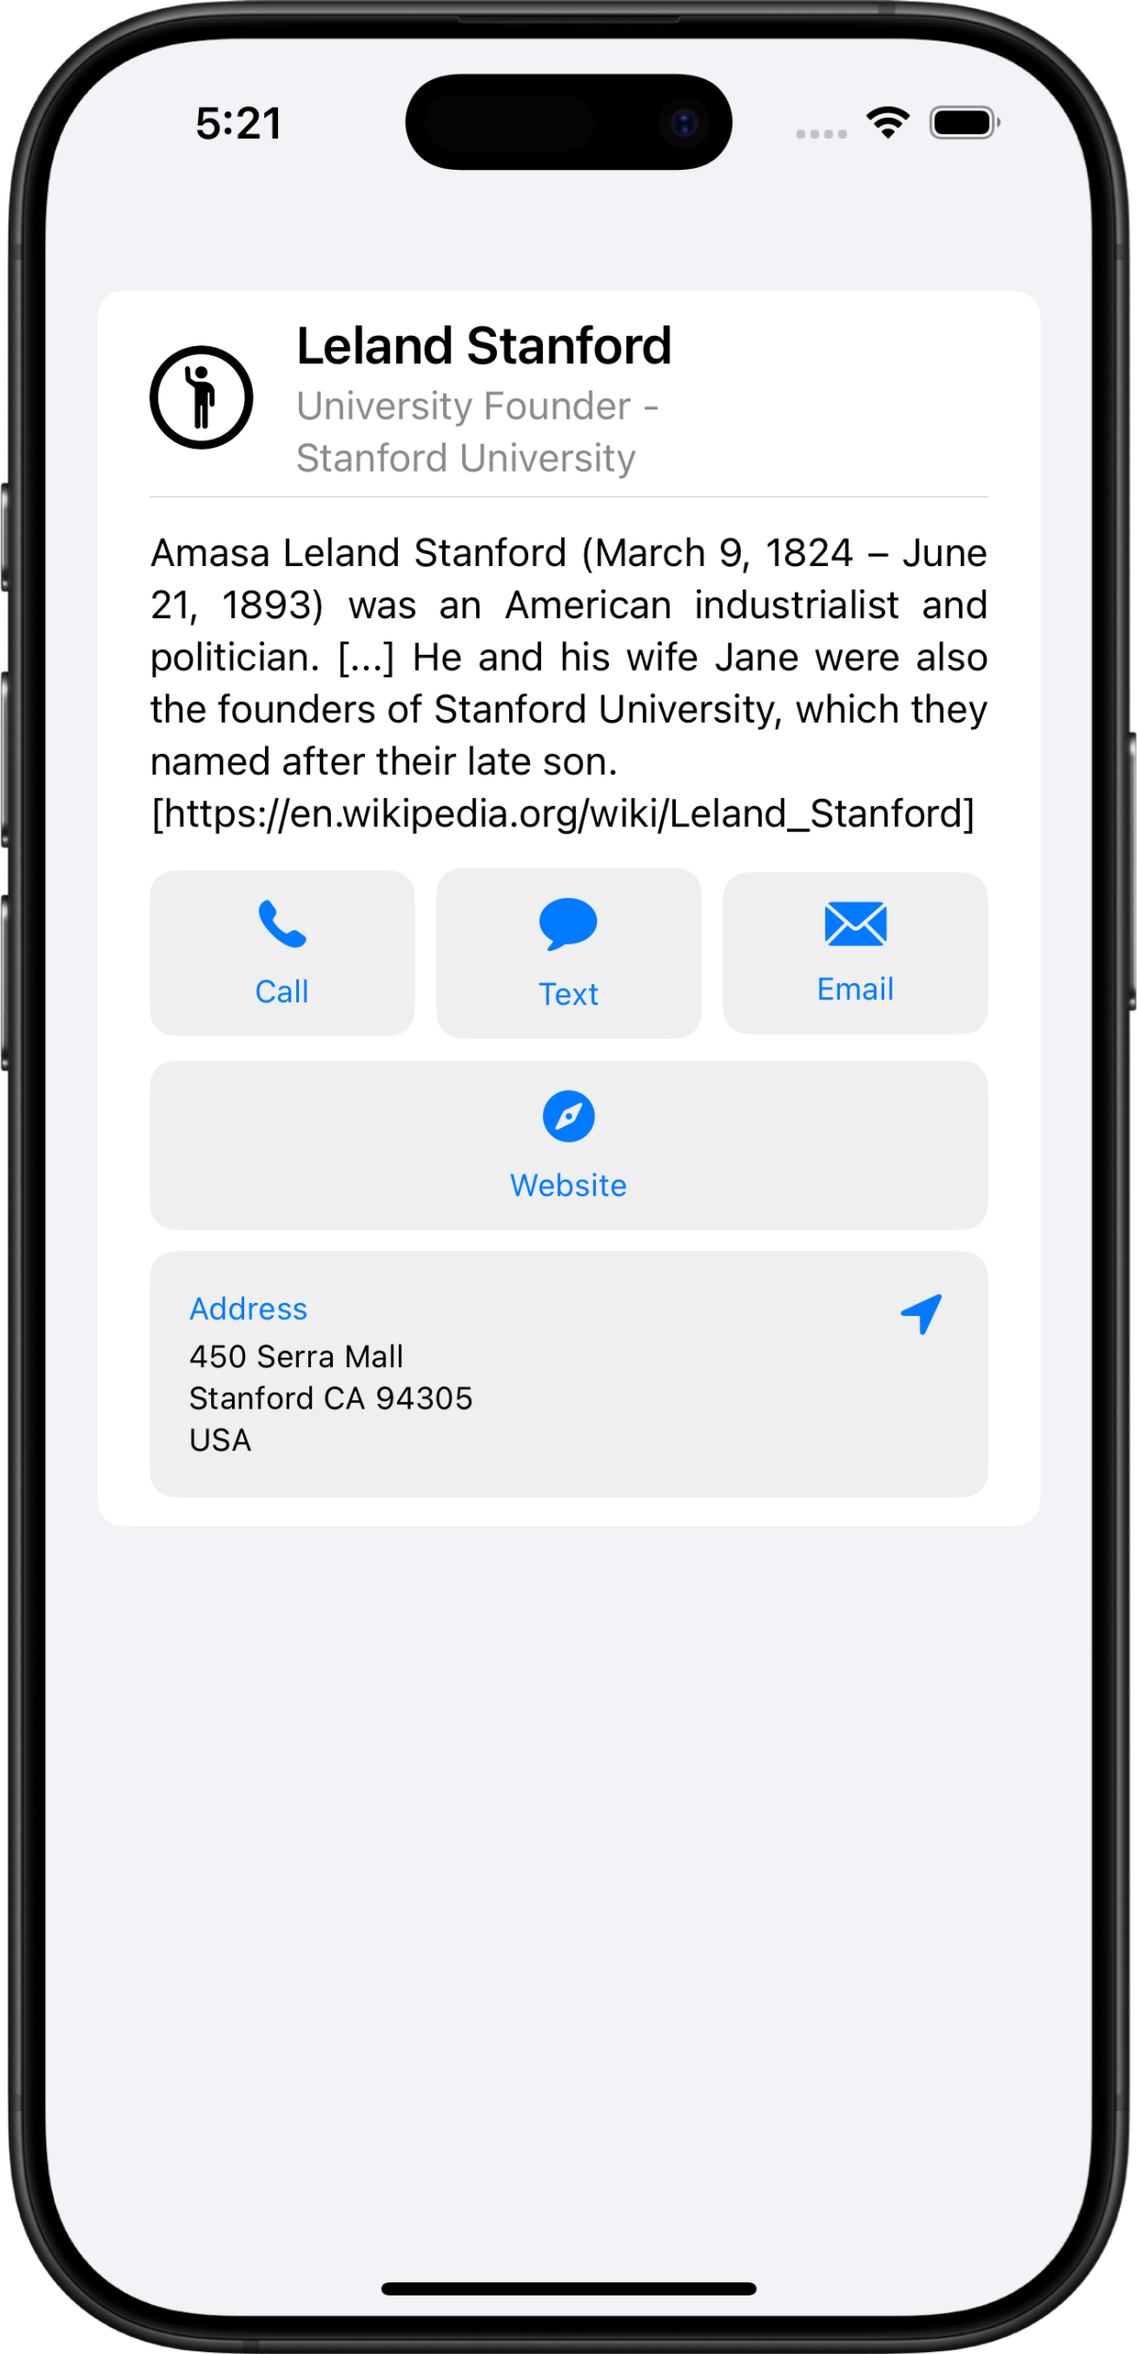
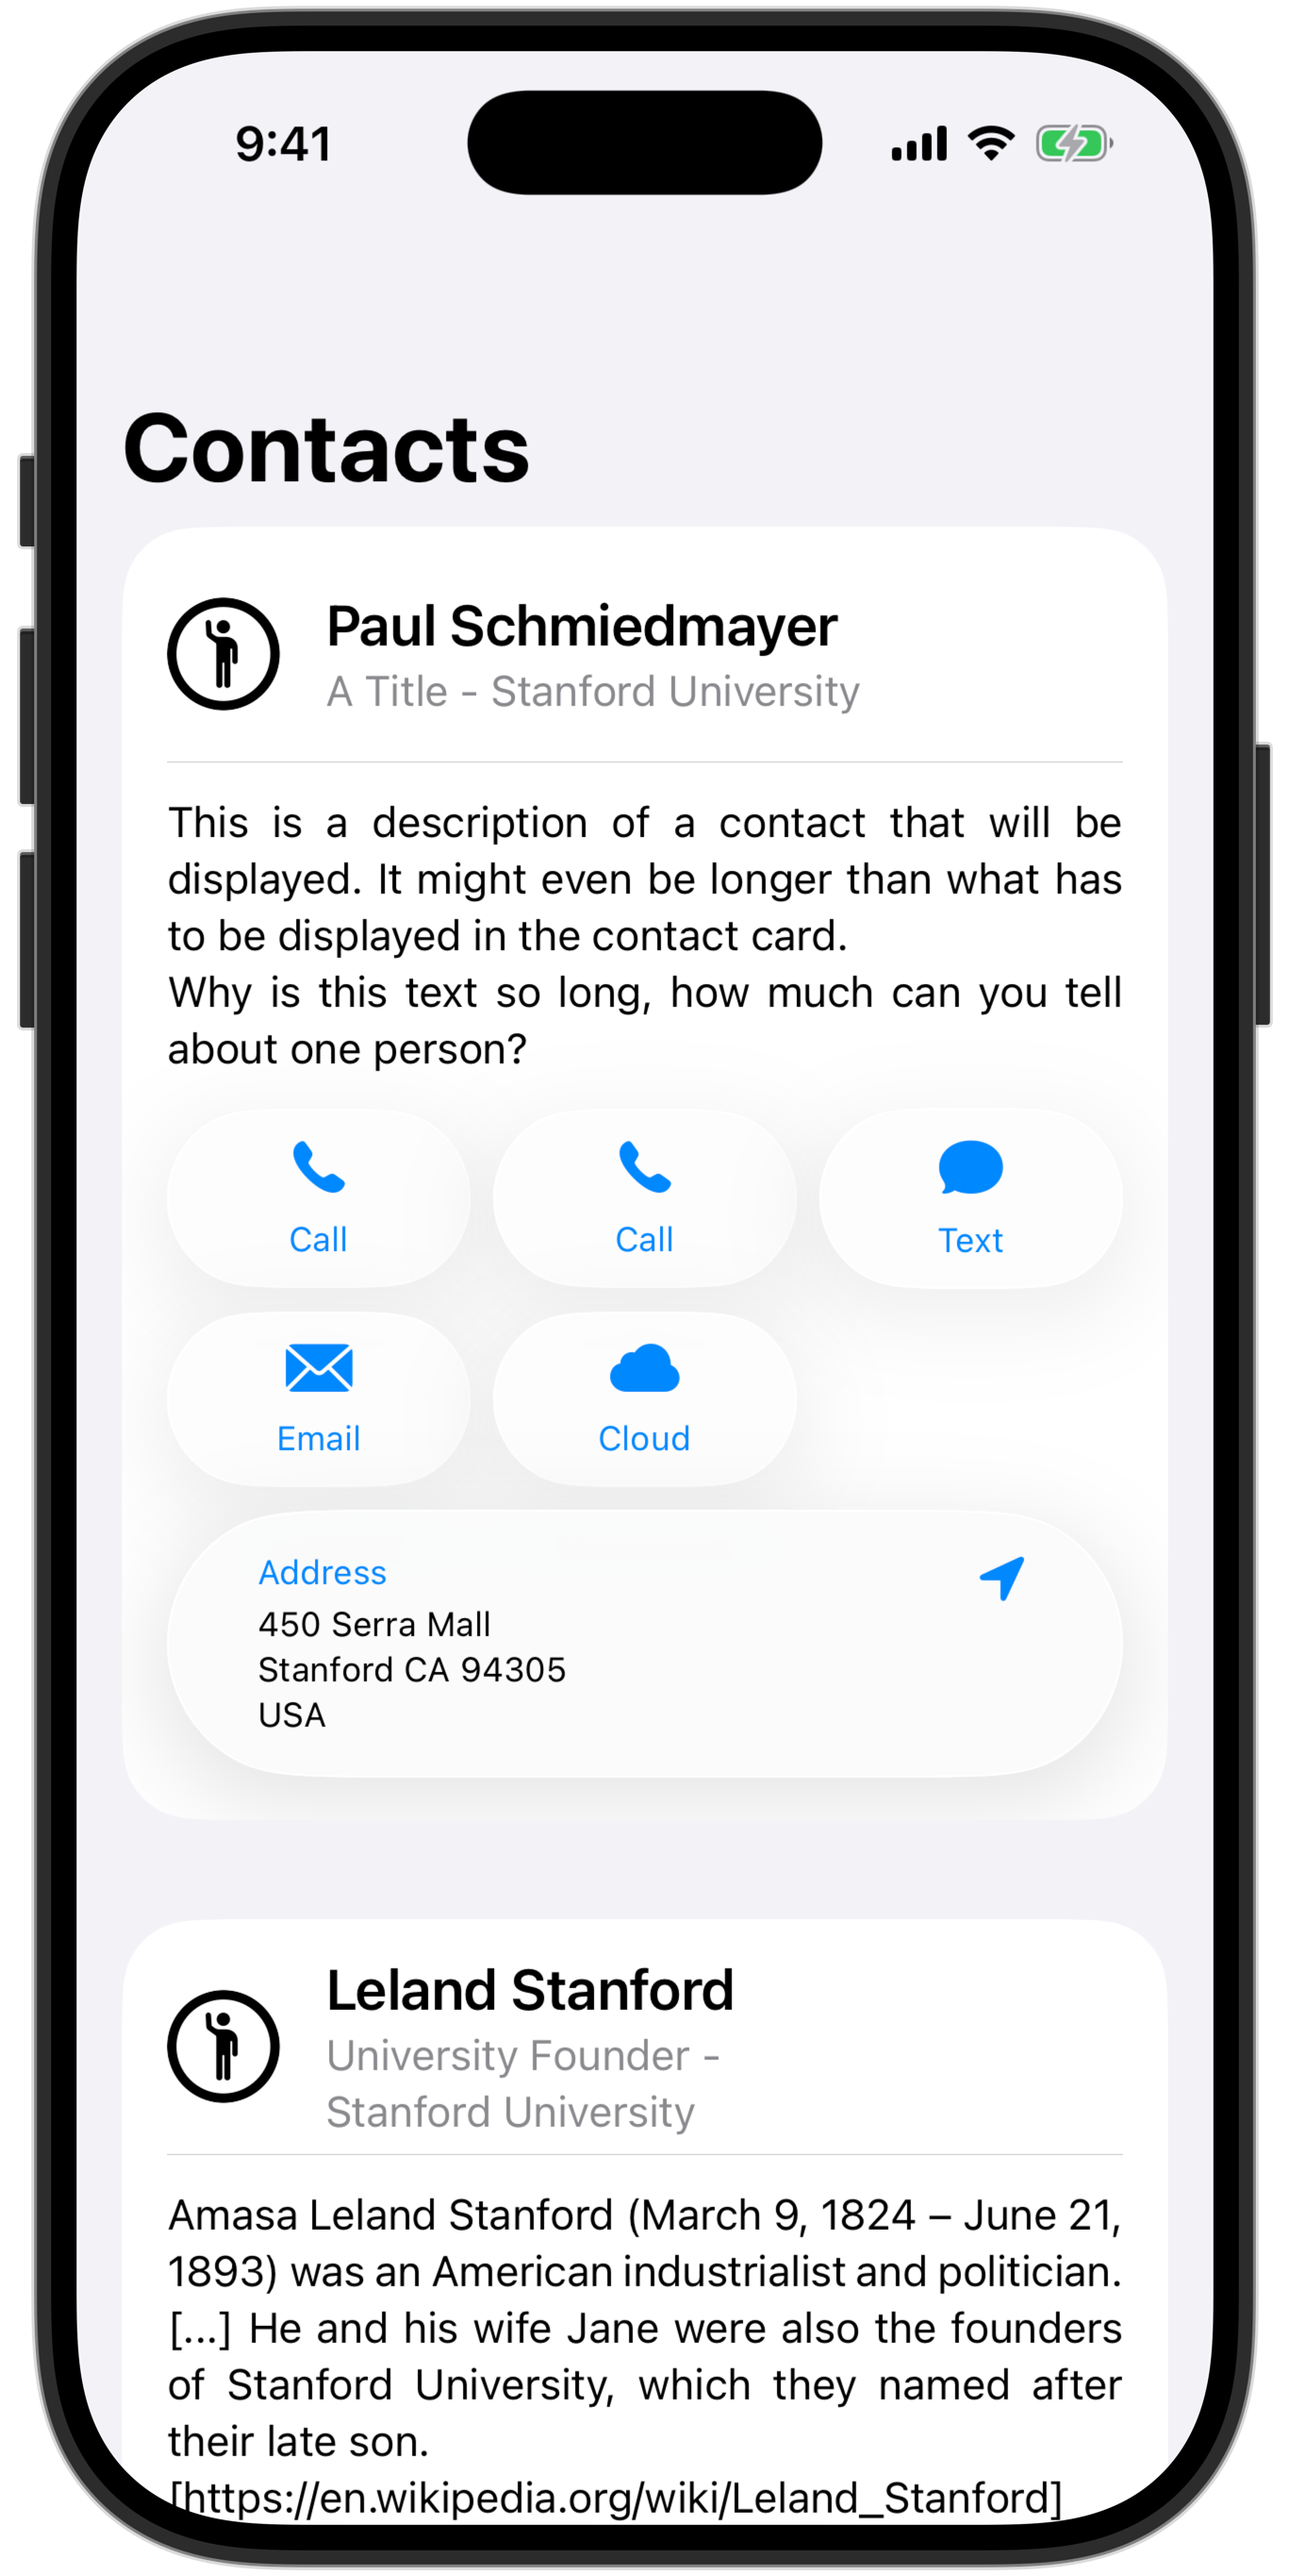
Update Localizations (#36)

diff --git a/Sources/SpeziContact/Contact Views/ContactView.swift b/Sources/SpeziContact/Contact Views/ContactView.swift
@@ -19,6 +19,8 @@ import SwiftUI
 public struct ContactView: View {
     private let contact: Contact
     
+    @Namespace private var namespace
+    
     @State private var contactGridWidth: CGFloat = 300
     @State private var contentElementWidth: CGFloat = 100
     
@@ -142,8 +144,7 @@ public struct ContactView: View {
         if let address = contact.address {
             Button(action: openMaps) {
                 ZStack {
-                    RoundedRectangle(cornerRadius: 10)
-                        .foregroundStyle(Color(uiColor: .tertiarySystemFill))
+                    background
                     HStack(alignment: .top) {
                         VStack(alignment: .leading, spacing: 4) {
                             Text("Address", bundle: .module, comment: "Contact Button Title")
@@ -158,9 +159,12 @@ public struct ContactView: View {
                             .foregroundColor(.accentColor)
                             .accessibilityHidden(true)
                     }
-                        .padding(15)
+                    .padding(ProcessInfo.processInfo.operatingSystemVersion.majorVersion >= 26 ? 0 : 15)
+                    .padding([.horizontal], ProcessInfo.processInfo.operatingSystemVersion.majorVersion >= 26 ? 32 : 0)
+                    .padding([.vertical], ProcessInfo.processInfo.operatingSystemVersion.majorVersion >= 26 ? 15 : 0)
                 }
                     .fixedSize(horizontal: false, vertical: true)
+                    .contentShape(Rectangle())
             }
                 .accessibilityLabel(Text(
                     "Address: \(Text(verbatim: CNPostalAddressFormatter().string(from: address)))",
@@ -169,6 +173,18 @@ public struct ContactView: View {
                 ))
         } else {
             EmptyView()
+        }
+    }
+    
+    @ViewBuilder private var background: some View {
+        if #available(iOS 26.0, watchOS 26.0, tvOS 26.0, macOS 26.0, macCatalyst 26.0, *) {
+            RoundedRectangle(cornerRadius: 10)
+                .foregroundStyle(Color(uiColor: .clear))
+                .glassEffect(.regular)
+                .glassEffectUnion(id: "Button", namespace: namespace)
+        } else {
+            RoundedRectangle(cornerRadius: 10)
+                .foregroundStyle(Color(uiColor: .tertiarySystemFill))
         }
     }
     
@@ -183,8 +199,7 @@ public struct ContactView: View {
     private func contactButton(_ contactOption: ContactOption) -> some View {
         Button(action: contactOption.action) {
             ZStack {
-                RoundedRectangle(cornerRadius: 10)
-                    .foregroundStyle(Color(uiColor: .tertiarySystemFill))
+                background
                 VStack(spacing: 8) {
                     contactOption.image
                         .font(.title3)
@@ -195,6 +210,7 @@ public struct ContactView: View {
                     .padding(.vertical, 10)
             }
                 .fixedSize(horizontal: false, vertical: true)
+                .contentShape(Rectangle())
         }
     }
     

diff --git a/CONTRIBUTORS.md b/CONTRIBUTORS.md
@@ -12,4 +12,4 @@ SpeziContact contributors
 ====================
 
 * [Paul Schmiedmayer](https://github.com/PSchmiedmayer)
-* [Andreas Bauer](https://github.com/Supereg)
+* [Andreas Bauer](https://github.com/bauer-andreas)
